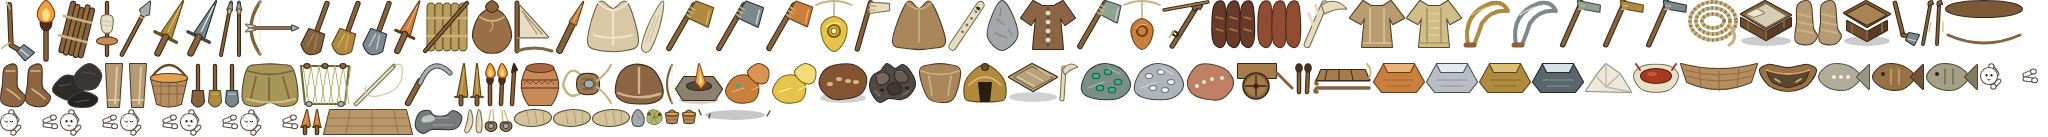
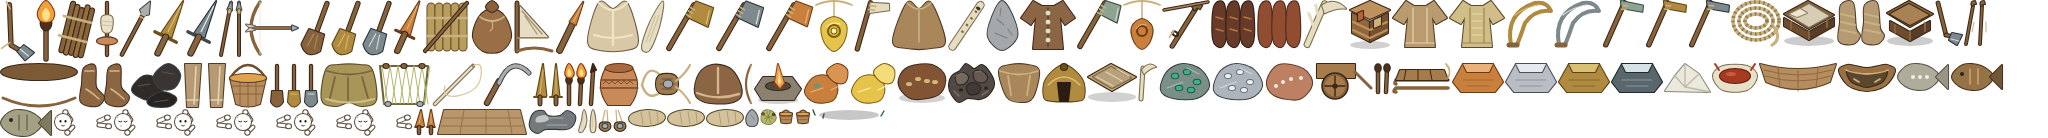
m15: añadir estante doméstico

diff --git a/src/sim/__tests__/furniture-sleep.test.ts b/src/sim/__tests__/furniture-sleep.test.ts
@@ -89,6 +89,32 @@ describe('bedding and beds', () => {
     expect(before - sleeper.needs.fatigue).toBeGreaterThanOrEqual(0.35 * 1.6);
   });
 
+  it('places a household shelf, stores and retrieves goods through the ordinary store contract, and saves its inventory', () => {
+    const { sim, person, house } = fixture();
+    person.knownTech.add('carpentry');
+    person.inventory.add('shelf', 1);
+    person.inventory.add('berries', 3);
+    expect(RECIPES.shelf).toMatchObject({ tech: 'carpentry', ingredients: { wood: 2 }, output: { shelf: 1 } });
+    expect(sim.order(person, 'place_furniture', { buildingId: house.id, itemId: 'shelf' })).toBe(true);
+    for (let tick = 0; tick < 5 && person.inventory.count('shelf') > 0; tick++) sim.step();
+
+    const shelf = sim.buildings.find(building => building.def.id === 'shelf')!;
+    expect(shelf).toMatchObject({ hostId: house.id, complete: true });
+    expect(shelf.def.storage).toBe(20);
+    expect(sim.storeItem(person, shelf, 'berries', 3)).toBe(3);
+    expect(shelf.store.count('berries')).toBe(3);
+    expect(sim.takeItem(person, shelf, 'berries', 2)).toBe(2);
+    expect(person.inventory.count('berries')).toBe(2);
+
+    const loaded = Simulation.fromCheckpointRecord(JSON.parse(JSON.stringify(toCheckpointRecord(sim))));
+    const loadedShelf = loaded.buildingsById.get(shelf.id)!;
+    expect(loadedShelf.hostId).toBe(loaded.buildingsById.get(house.id)!.id);
+    expect(loadedShelf.store.count('berries')).toBe(1);
+    expect(availableActions(person, { kind: 'building', x: shelf.x, y: shelf.y, building: shelf },
+      { world: sim.world, nearWater: false }).filter(option => option.id === 'store' || option.id === 'take'))
+      .toMatchObject([{ id: 'store', enabled: true }, { id: 'take', enabled: true }]);
+  });
+
   it('recognizes a seated family member as bench company and rewards their conversation', () => {
     const { sim, person, house } = fixture();
     const family = sim.livingPeople().find(candidate => candidate.id !== person.id && !candidate.isChild)!;
@@ -273,6 +299,35 @@ describe('bedding and beds', () => {
       expect(sim.buildings.some(piece => piece.hostId === house.id && piece.def.id === 'bench'),
         JSON.stringify({ action: person.action, order: person.order, inventory: person.inventory.entries(), target: person.targetBuildingId }))
         .toBe(true);
+    } finally { spy.mockRestore(); }
+  });
+
+  it('autonomously crafts and places a shelf for an established household', () => {
+    const { sim, person, house } = fixture();
+    person.knownTech.add('carpentry'); person.inventory.add('wood', 2);
+    const bed = new Building(BUILDINGS.bed!, house.centerX, house.centerY, person.bandId, sim.ids);
+    bed.hostId = house.id; bed.complete = true;
+    sim.buildings.push(bed); sim.buildingsById.set(bed.id, bed); sim.buildingHash.insert(bed);
+    const bench = new Building(BUILDINGS.bench!, house.centerX + 1, house.centerY, person.bandId, sim.ids);
+    bench.hostId = house.id; bench.complete = true;
+    sim.buildings.push(bench); sim.buildingsById.set(bench.id, bench); sim.buildingHash.insert(bench);
+    person.action = 'idle'; person.order = null; person.needs.fatigue = 0;
+    const brain = (sim as unknown as { brain: Brain }).brain;
+    const score = brain.score.bind(brain);
+    const spy = vi.spyOn(brain, 'score').mockImplementation((actor, ctx) => {
+      const result = score(actor, ctx);
+      if (actor === person) for (const action of result.scores) {
+        if (action.id === 'craft' || action.id === 'place_furniture') action.score = 100;
+      }
+      return result;
+    });
+    try {
+      for (let tick = 0; tick < 500 && !sim.buildings.some(piece => piece.hostId === house.id && piece.def.id === 'shelf'); tick++) {
+        person.needs.hunger = person.needs.thirst = person.needs.cold = 0;
+        sim.step();
+      }
+      expect(person.inventory.count('shelf')).toBe(0);
+      expect(sim.buildings.some(piece => piece.hostId === house.id && piece.def.id === 'shelf')).toBe(true);
     } finally { spy.mockRestore(); }
   });
 

diff --git a/art/src/buildings/furniture.ts b/art/src/buildings/furniture.ts
@@ -40,9 +40,20 @@ const fatLamp = (): string =>
   shape(poly([[67, 65], [71, 47], [77, 66], [73, 72]]), '#f0a443', '#9a431b') +
   shape(poly([[70, 64], [72, 53], [74, 65], [72, 68]]), '#ffe5a0');
 
+const shelf = (): string =>
+  ell(72, 101, 30, 6, 'rgba(0,0,0,0.2)') +
+  shape(poly([[40, 39], [72, 25], [104, 39], [72, 54]]), WOOD_LIGHT, OUTLINE) +
+  shape(poly([[42, 44], [72, 57], [72, 88], [42, 75]]), WOOD, OUTLINE) +
+  shape(poly([[72, 57], [102, 44], [102, 75], [72, 88]]), '#76502f', OUTLINE) +
+  stroke('M43,57L72,70L101,57M43,70L72,83L101,70', WOOD_LIGHT, 3) +
+  shape(poly([[52, 41], [60, 37], [60, 50], [52, 53]]), '#b95f3b', '#65351f') +
+  shape(poly([[76, 45], [87, 40], [87, 53], [76, 58]]), '#d0b276', '#71572e') +
+  shape(poly([[61, 62], [68, 59], [68, 70], [61, 73]]), '#7b9b70', '#3f5738');
+
 export const FURNITURE: BuildingArt[] = [
   ['bedding', 'Lecho', 'cordage', 96, bedding],
   ['bed', 'Cama', 'carpentry', 96, bed],
   ['bench', 'Banco', 'carpentry', 96, bench],
   ['fat_lamp', 'Lámpara de grasa', 'firemaking', 96, fatLamp],
+  ['shelf', 'Estante', 'carpentry', 96, shelf],
 ];

diff --git a/art/src/props/items.ts b/art/src/props/items.ts
@@ -95,6 +95,14 @@ export const ITEMS: ItemArt[] = [
     + ell(32, 40, 12, 4, '#55483a', WOOD_D)
     + shape(poly([[29, 36], [32, 18], [38, 37], [34, 42]]), '#f0a443', '#9a431b')
     + shape(poly([[32, 35], [33, 24], [35, 36], [33, 39]]), '#ffe5a0')],
+  ['shelf', 'Estante', 'carpentry', () =>
+    ell(32, 54, 20, 4, 'rgba(0,0,0,0.18)')
+    + shape(poly([[12, 19], [32, 10], [52, 19], [32, 28]]), '#bd925d', WOOD_D)
+    + shape(poly([[14, 22], [32, 31], [32, 51], [14, 42]]), '#91663b', WOOD_D)
+    + shape(poly([[32, 31], [50, 22], [50, 42], [32, 51]]), '#76502f', WOOD_D)
+    + stroke('M15,31L32,39L49,31M15,39L32,47L49,39', '#bd925d', 2)
+    + shape(poly([[20, 22], [25, 20], [25, 28], [20, 30]]), '#b95f3b', WOOD_D)
+    + shape(poly([[36, 29], [43, 26], [43, 34], [36, 37]]), '#d0b276', WOOD_D)],
   ['raft', 'Balsa de juncos', 'cordage', () =>
     [16, 24, 32, 40, 48].map(x => limb([[x, 12], [x, 52]], 7, '#b89d5c', '#685332')).join('')
     + stroke('M12,23L52,23M12,41L52,41', CORD, 2.6)

diff --git a/src/sim/entities/Recipe.ts b/src/sim/entities/Recipe.ts
@@ -101,6 +101,8 @@ export const RECIPES: Record<string, RecipeDef> = {
     workTicks: 100, ingredients: { wood: 2 }, output: { bench: 1 }, keep: 0 },
   fat_lamp: { id: 'fat_lamp', label: 'Fat lamp', icon: '\u{1F56F}', tech: 'firemaking', skill: 'build',
     workTicks: 100, ingredients: { flint: 1, fat: 2 }, output: { fat_lamp: 1 }, keep: 1 },
+  shelf: { id: 'shelf', label: 'Shelf', icon: '\u{1F4DA}', tech: 'carpentry', skill: 'build',
+    workTicks: 100, ingredients: { wood: 2 }, output: { shelf: 1 }, keep: 0 },
   // Kept at zero: a raft is made for a journey, not a new universal AI tax.
   raft: { id: 'raft', label: 'Reed raft', icon: '🛶', tech: 'cordage', skill: 'build',
     workTicks: 120, ingredients: { thatch: 6, sticks: 2, rope: 1 }, output: { raft: 1 }, keep: 0 },

diff --git a/src/sim/entities/Item.ts b/src/sim/entities/Item.ts
@@ -105,6 +105,8 @@ export const ITEMS: Record<string, ItemDef> = {
     class: 'bulky', hand: { perHand: 0, perArms: 1, hands: 2 }, furniture: true },
   fat_lamp: { id: 'fat_lamp', label: 'Fat lamp', nutrition: 0, spoilTicks: 0, baseValue: 10,
     class: 'bulky', hand: { perHand: 0, perArms: 1, hands: 2 }, furniture: true },
+  shelf: { id: 'shelf', label: 'Shelf', nutrition: 0, spoilTicks: 0, baseValue: 8,
+    class: 'bulky', hand: { perHand: 0, perArms: 1, hands: 2 }, furniture: true },
   raft: { id: 'raft', label: 'Reed raft', nutrition: 0, spoilTicks: 0, baseValue: 12,
     class: 'bulky', hand: { perHand: 0, perArms: 2, hands: 2, shoulder: 0 } },
   sail: { id: 'sail', label: 'Sail', nutrition: 0, spoilTicks: 0, baseValue: 18,

diff --git a/src/sim/ai/Brain.ts b/src/sim/ai/Brain.ts
@@ -3699,6 +3699,12 @@ export class Brain {
             furnitureRecipe = 'bench';
           }
         }
+        if (!furnitureItem && !furnitureRecipe && !pieces.some(piece => piece.def.id === 'shelf')) {
+          if (person.inventory.count('shelf') > 0) furnitureItem = 'shelf';
+          else if (recipeTechPower(person, RECIPES.shelf!) > 0 && hasIngredients(person.inventory, RECIPES.shelf!)) {
+            furnitureRecipe = 'shelf';
+          }
+        }
         if (furnitureItem) {
           furnitureHome = home;
           add('place_furniture', 0.8 * this.proximityBonus(person,

diff --git a/src/sim/entities/Building.ts b/src/sim/entities/Building.ts
@@ -349,6 +349,12 @@ export const BUILDINGS: Record<string, BuildingDef> = {
     requiresTech: 'firemaking', furniture: true,
     description: 'A stone lamp that burns animal fat to light a home.',
   },
+  shelf: {
+    id: 'shelf', label: 'Shelf', icon: '\u{1F4DA}',
+    width: 1, height: 1, materials: {}, workTicks: 0, shelter: 0, storage: 20,
+    requiresTech: 'carpentry', furniture: true,
+    description: 'A household shelf for keeping carried goods indoors.',
+  },
 
   // --- M11 phase 10, second commit: two more shelters -----------------------
   //

diff --git a/src/i18n/es/data.ts b/src/i18n/es/data.ts
@@ -39,6 +39,8 @@ export const ES_DATA: Record<string, string> = {
   "Fat torch": "Antorcha de grasa",
   "Fat lamp": "Lámpara de grasa",
   "A stone lamp that burns animal fat to light a home.": "Una lámpara de piedra que quema grasa animal para iluminar una casa.",
+  "Shelf": "Estante",
+  "A household shelf for keeping carried goods indoors.": "Un estante doméstico para guardar dentro los objetos transportados.",
   "Hide cape": "Capa de piel",
   "Sewn tunic": "Túnica cosida",
   'Dried meat': 'Carne seca',

diff --git a/src/render/__tests__/art.test.ts b/src/render/__tests__/art.test.ts
@@ -83,7 +83,7 @@ describe('art coverage', () => {
   });
 
   it('draws inventory icons and world sprites for the phase 16d sleep surfaces', () => {
-    for (const id of ['bedding', 'bed', 'bench']) {
+    for (const id of ['bedding', 'bed', 'bench', 'shelf']) {
       expect(props.keys[`item/${id}`], `${id} inventory icon`).toBeDefined();
       expect(buildings.keys[`b/${id}/ext`], `${id} placed furniture`).toBeDefined();
     }

diff --git a/docs/m15_plan.md b/docs/m15_plan.md
@@ -1,4 +1,5 @@
-**Avance del 2026-10-11 — 16d, lámpara de grasa:** mueble `fat_lamp` de fuego, con arte generado, colocación solo en la casa del hogar, carga de 1200 ticks por dos grasas y recarga contextual. El lector existente `lightAt` y la escena nocturna del renderer usan la luz local; no aporta calor ni sustituye al hogar. Combustible/host persisten en checkpoints y sus negativas tienen razón. [Contrato y captura](m15_phase16d_bedding.md). Quedan estante/acopio, hogar interior, más muebles de confort, autonomía completa del mobiliario y 16e/16f; no se afirma mejora medida ni se ejecutaron cohortes.
+**Avance del 2026-10-12 — 16d, estante del hogar:** `shelf` de carpintería, con 20 unidades de almacenamiento y el ciclo normal de guardar/retirar del inventario. Se fabrica y coloca en la casa familiar mediante los lectores existentes; NPC con materiales y espacio pueden construirlo cuando su hogar aún no tiene uno. El host y el inventario se guardan en checkpoint. [Contrato](m15_phase16d_bedding.md). Siguen pendientes hogar interior, más muebles, la autonomía completa del mobiliario y 16e/16f; no se afirma mejora medida ni se ejecutaron cohortes.
+**Avance del 2026-10-11 — 16d, lámpara de grasa:** mueble `fat_lamp` de fuego, con arte generado, colocación solo en la casa del hogar, carga de 1200 ticks por dos grasas y recarga contextual. El lector existente `lightAt` y la escena nocturna del renderer usan la luz local; no aporta calor ni sustituye al hogar. Combustible/host persisten en checkpoints y sus negativas tienen razón. [Contrato y captura](m15_phase16d_bedding.md). Quedan hogar interior, más muebles de confort, autonomía completa del mobiliario y 16e/16f; no se afirma mejora medida ni se ejecutaron cohortes.
 
 **Avance del 2026-10-11 — 14c, fusión de almacenes:** al fusionar hogares, el almacén de origen se combina atómicamente con el del hogar destino mediante una transferencia de inventario validada. Se conserva el estado de cada prenda y se reemiten IDs locales en caso de colisión. Una incoherencia de identidad o cantidad rechaza la fusión antes de cambiar hogares/riqueza; un fallo de inserción revierte ambos inventarios. Siguen pendientes herencia, intercambio/robo/tributo, escrow y tráfico de mundo; desgaste/remiendo continúan apagados.
 
@@ -1949,7 +1950,7 @@ es posible si nadie del hogar lo ve.
 |---|---|---|---|
 | lecho (`bedding`) | ninguna | paja 4 o piel 2 | dormir a 1,0 (16e). El lecho de hierba de Sibudu tiene ~77.000 años |
 | cama (`bed`) | `carpentry` | madera 3, lecho 1 | dormir a 1,1 (16e) |
-| estante (`shelf`) | `carpentry` | madera 2 | 20 de almacén del hogar: el que `Household.homeBuildingId` ya señala |
+| estante (`shelf`) | `carpentry` | madera 2 | **entregado:** 20 de almacenamiento en el mueble, incluido en el inventario normal de `Building.store` |
 | hogar interior (`fireplace`) | `fireplace` (sub-red Fuego) | barro 4, sílex 2 | calor y luz dentro de la casa (`Light`), estación `hearth` para cocinar, y ahumar con un secadero al lado |
 | lámpara de grasa (`fat_lamp`) | `fat_lamp` (sub-red Fuego; Paleolítico superior, las lámparas de piedra de Lascaux) | sílex 1 y grasa 2 por carga | luz sin calor, de radio pequeño y larga duración: coser y tallar de noche en casa (el lector del trabajo fino de la fase 12b). Se recarga con grasa |
 | asiento y banco (`bench`) | `carpentry` | madera 2 | descansar sentado dentro recupera más; hablar sentados dentro suma pertenencia (fase 5b) |

diff --git a/docs/m15_phase16d_bedding.md b/docs/m15_phase16d_bedding.md
@@ -18,8 +18,9 @@
 
 The sleep-surface ladder and bench/lamp slices are delivered separately below.
 This document does not close autonomous furniture crafting as a whole, a comfort
-mood, storage furniture, all listed room furniture or family-specific sleeping
-assignments. The recipes use existing technology and current ingredient values;
+mood, storage categories/upgrades beyond the single shelf below, all listed
+room furniture or family-specific sleeping assignments. The recipes use
+existing technology and current ingredient values;
 this change does not claim a measured improvement to the food economy. No cohort
 run was made.
 
@@ -40,6 +41,24 @@ icons. The bed capture is `artifacts/screenshots/m15-phase16d-2026-10-10/01-bed-
 `artifacts/screenshots/m15-phase16d-bench-2026-10-11/`. Browser captures use
 debug fixtures to place furniture; the lamp capture additionally shows its
 Spanish refill option in the physical radial menu.
+
+## 2026-10-12: household shelf storage
+
+`shelf` is a carpentry recipe using two wood. A carried shelf can be placed by
+the household member inside their completed home, using the shared furniture
+placement path. The placed building has 20 capacity in its ordinary
+`Building.store`; radial store/take actions, direct transfer, ownership rules,
+and inventory persistence therefore use the existing store contract. It is
+walkable and does not replace or resize the home store. NPC with carpentry and
+two carried wood autonomously make and place one when their home has a sleep
+surface, a bench and a free room tile. Tests cover autonomous placement, saving
+stock, and storing/retrieving through the normal APIs. The new sprite and item
+icon are generated from `art/src`; no panel or overlay changed.
+
+This is a single shelf per home with the existing 20-unit generic capacity.
+It does not provide category sorting, dedicated stock requests, or shelf
+upgrades. The fireplace and other planned furniture remain open, as do the
+remaining phase 16e/16f measures and comfort work.
 
 ## 2026-10-10: household autonomy, first surface
 
@@ -71,8 +90,8 @@ fallback remains in place.
 The assignment is derived from `Household.memberIds`, live people and hosted
 buildings, so it has no new checkpoint field, RNG draw or UI. The focused
 regression checks stable sorting, distinct surfaces when available, and the
-round-robin case. Individual player-managed assignments, shelf storage,
-fireplace, and the phase 16f measurement remain open. Seated family
+round-robin case. Individual player-managed assignments, shelf categories and
+upgrades, fireplace, and the phase 16f measurement remain open. Seated family
 conversation is covered below.
 
 ## 2026-10-11: bench and seated rest

diff --git a/docs/changelog.md b/docs/changelog.md
@@ -14953,3 +14953,14 @@ control negativo. No cambia la UI visible del mundo. No se pudieron ejecutar
 typecheck ni Vitest en este worktree: `node_modules` no estaba instalado y
 `npm install --legacy-peer-deps` recibió EPERM al crear esa carpeta. No hubo
 calibración ni cohortes; la fase 26 permanece abierta.
+
+## 2026-10-12 — m15: estante doméstico utilizable
+
+Se añade el estante de carpintería de dos maderas: el mueble colocado usa el
+almacén existente con capacidad 20, así que guardar, retirar, consultar desde el
+menú y persistir existencias recorren el mismo contrato que otros edificios.
+La autonomía de mobiliario lo fabrica y coloca una vez en hogares que ya tienen
+una superficie de sueño y un banco. Arte de edificio e icono se generan desde
+`art/src`; no cambia paneles ni overlays. Plan y límites en
+`docs/m15_phase16d_bedding.md`. Pruebas focales cubren la
+transferencia, checkpoint, acciones radiales y colocación autónoma.
